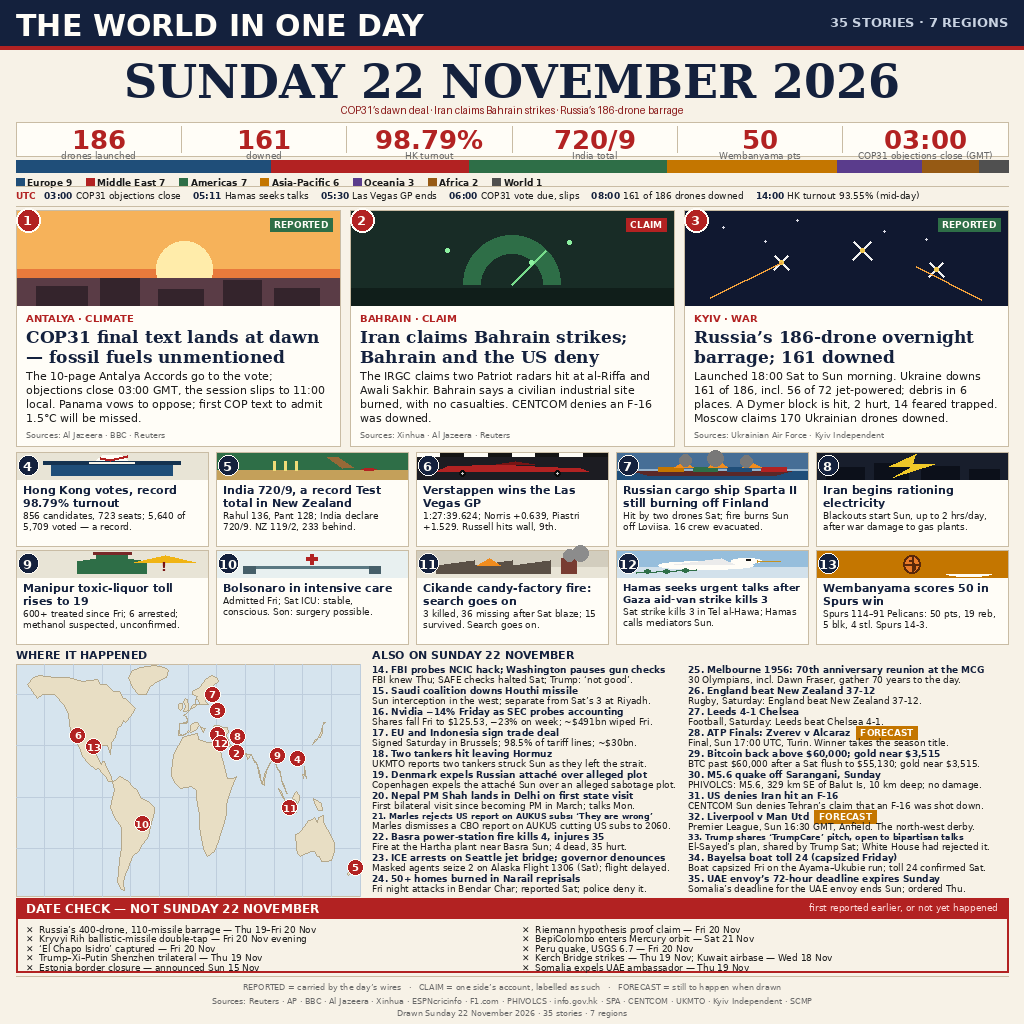
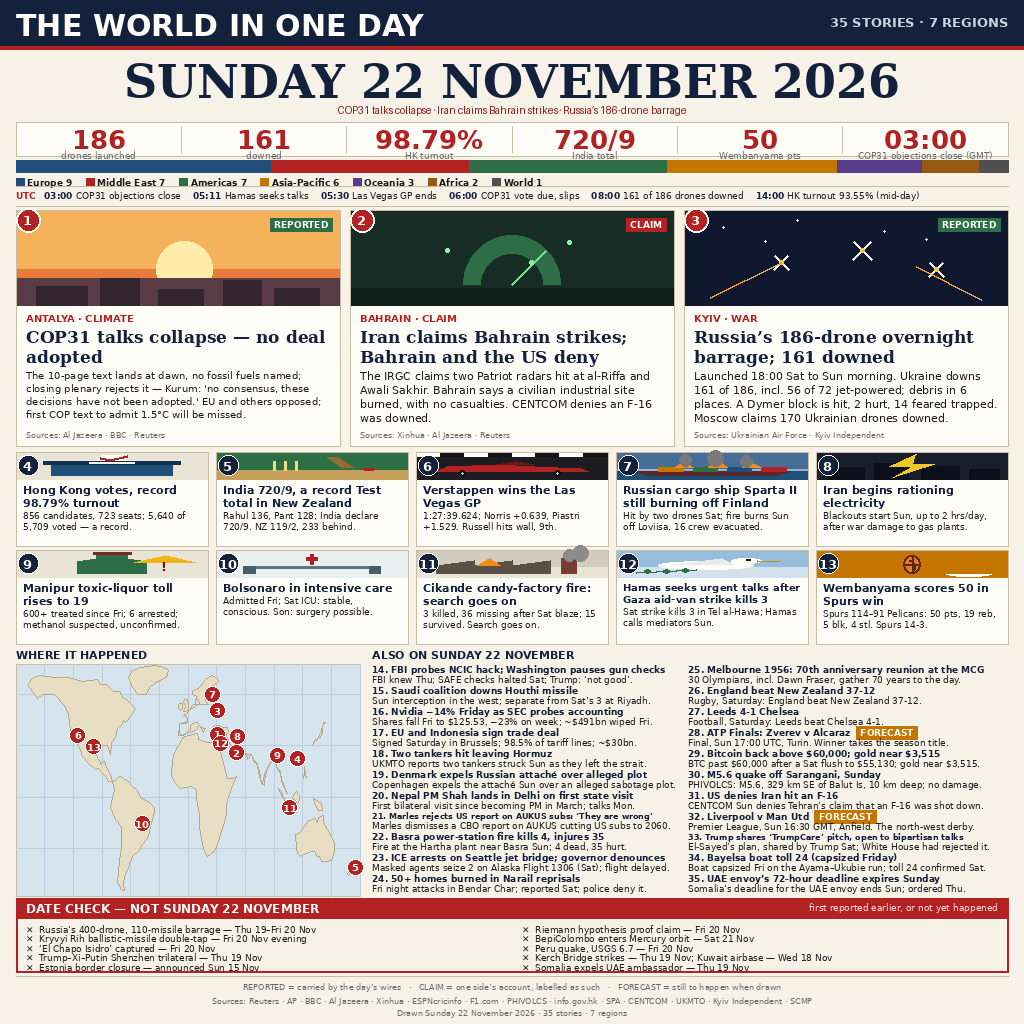
news-image-20261122 v1.1: COP31 talks collapse — no deal adopted (L1 + masthead sub)

Changed region(s): [[0.0312, 0.3125, 0.3125, 0.4375], [0.4688, 0.0938, 0.6562, 0.125], [0.3438, 0.0938, 0.4375, 0.125]]

diff --git a/main.py b/main.py
@@ -111,10 +111,10 @@ TIMELINE = [
 # Leads: num, kicker, region, headline, body, source, tag, lat, lon, icon
 LEADS = [
     (1, "ANTALYA \u00b7 CLIMATE", "Europe",
-     "COP31 final text lands at dawn \u2014 fossil fuels unmentioned",
-     "The 10-page Antalya Accords go to the vote; objections close 03:00 GMT, "
-     "the session slips to 11:00 local. Panama vows to oppose; first COP text "
-     "to admit 1.5\u00b0C will be missed.",
+     "COP31 talks collapse \u2014 no deal adopted",
+     "The 10-page text lands at dawn, no fossil fuels named; "
+     "closing plenary rejects it \u2014 Kurum: 'no consensus, these decisions have not been adopted.' "
+     "EU and others opposed; first COP text to admit 1.5\u00b0C will be missed.",
      "Al Jazeera \u00b7 BBC \u00b7 Reuters", "REPORTED", 36.9, 30.7, "sunrise"),
     (2, "BAHRAIN \u00b7 CLAIM", "Middle East",
      "Iran claims Bahrain strikes; Bahrain and the US deny",
@@ -729,7 +729,7 @@ def draw_masthead(draw):
 def draw_date_block(draw):
     title = "SUNDAY 22 NOVEMBER 2026"
     draw_centered(draw, W / 2, 54, title, F["date"], NAVY)
-    sub = ("COP31\u2019s dawn deal \u00b7 Iran claims Bahrain strikes \u00b7 "
+    sub = ("COP31 talks collapse \u00b7 Iran claims Bahrain strikes \u00b7 "
            "Russia\u2019s 186-drone barrage")
     draw_centered(draw, W / 2, 104, sub, F["sub"], RED_DARK)
 
